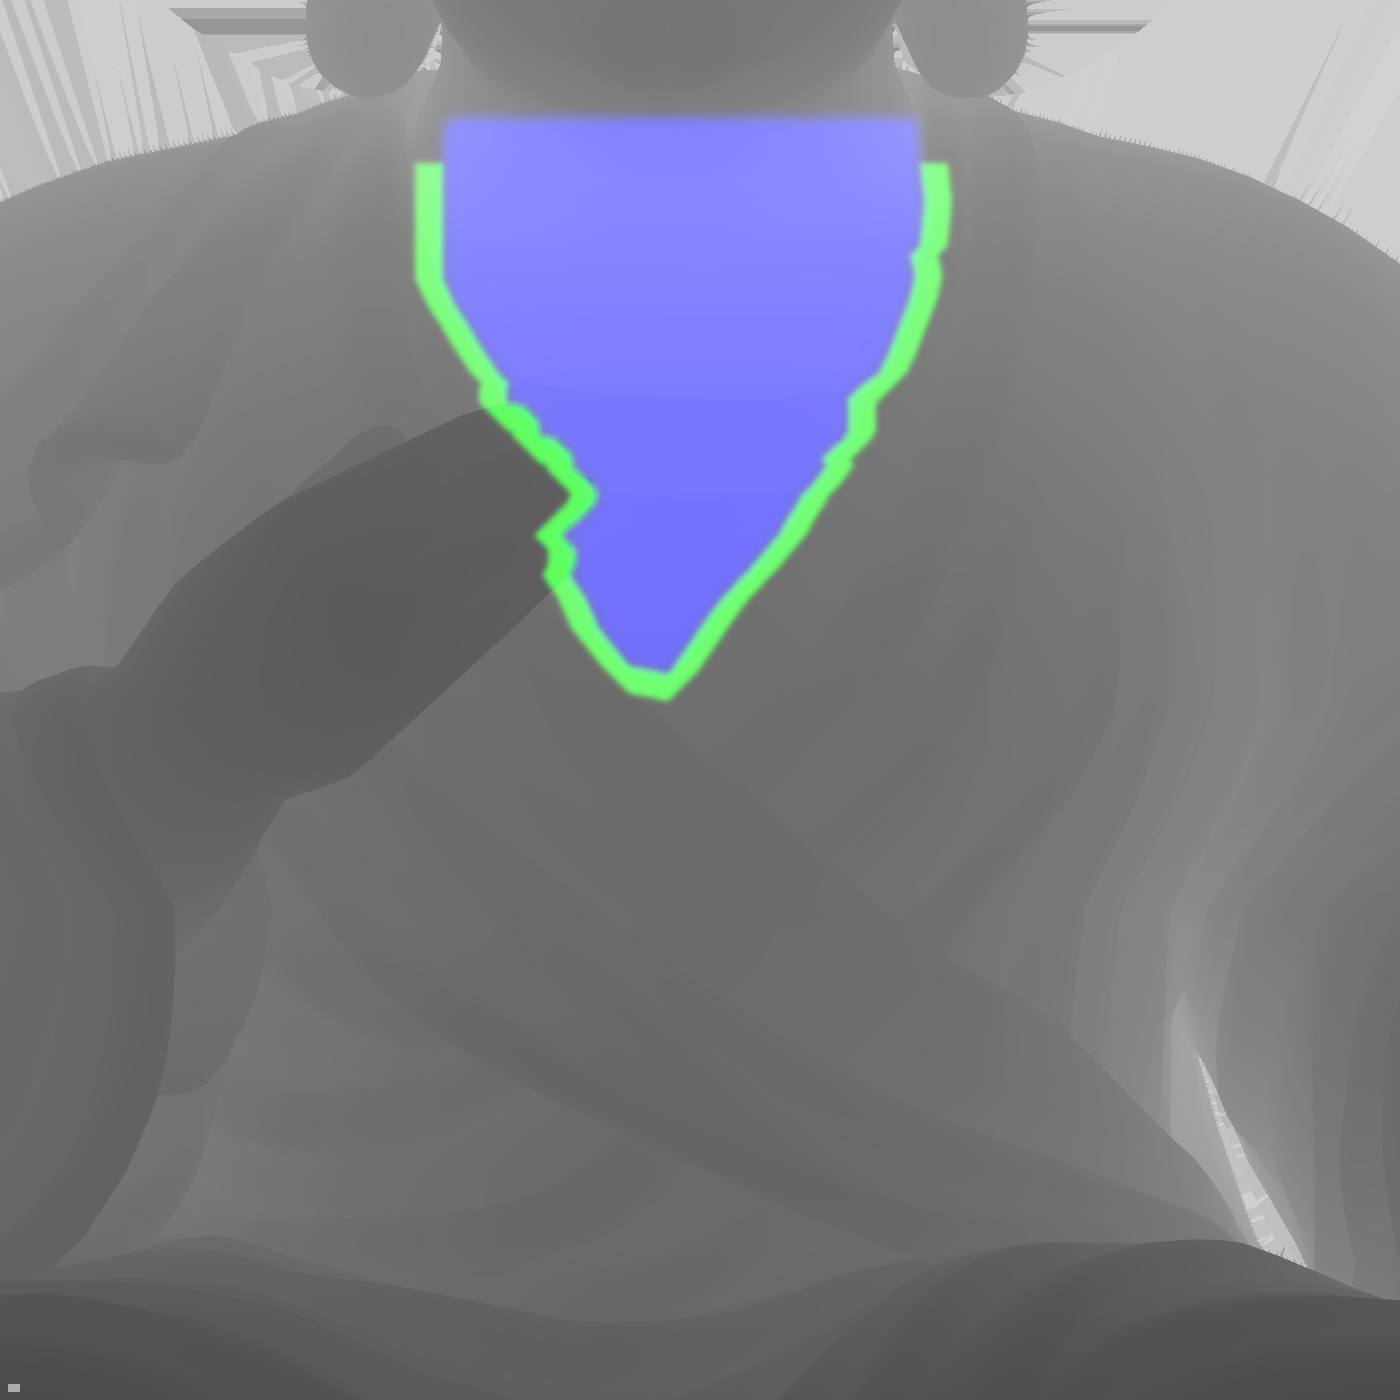
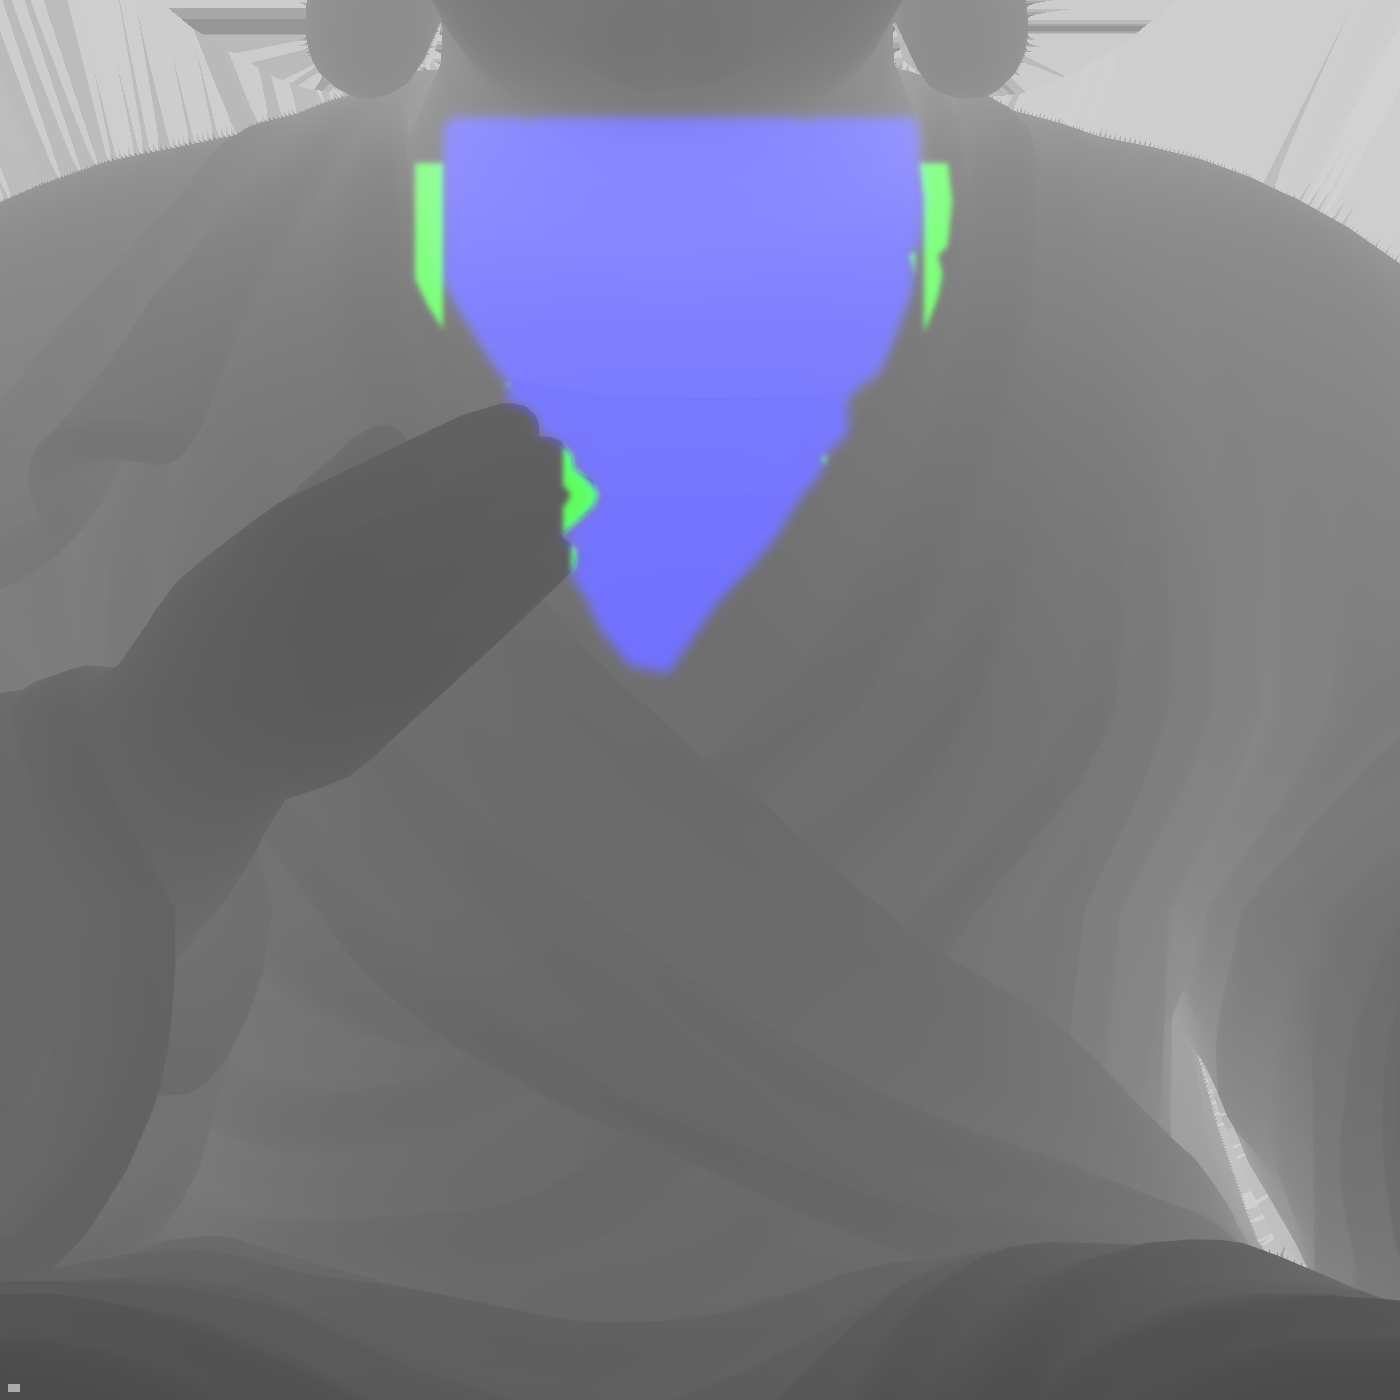
feat(t05): the figures' paint per #463: lips, mineral green, gilt on the collar only, seats, halos, folds, hands
Lips #6B5144; the inner robe #465546, which reads hue 136–143° and
saturation 0.25 on screen at cam03; the gilt only along the collar and
lapels (mask.py open: below), #806637 at metalness 0.3, at most 0.87 of
the face's brightness; seats #483F35 with their petals' rims tinted, 0.63–0.68
of the face for the middle five; the halo board #6A5440, 0.43–0.51 of the face.
The folds' hollows are darkened and their ridges rubbed from the surface's
curvature. Kasyapa's and Krakucchanda's hand capsules now reach their
fingertips. tools/t05-hall.cjs measures every zone on screen (zones: true,
stage.js zoneIds).

Claude-Session: https://claude.ai/code/session_01Cq65vKG5zL5hqHzVjHVbhc

Changed region(s): [[0.3686, 0.1536, 0.6757, 0.5221], [0.3071, 0.1843, 0.43, 0.3379]]

diff --git a/tools/t05-hall/stage.js b/tools/t05-hall/stage.js
@@ -66,7 +66,7 @@ const M = {
   wallIn: mat(0xb9b2a2, 0.95), wallFront: mat(0x8a3b2a, 0.9), wallOut: mat(0x8a3b2a, 0.9, true), timber: mat(0x3a2c23, 0.8), red: mat(0x7a3426, 0.75),
   roof: mat(0x2f251e, 0.85, false, { side: THREE.DoubleSide }), tile: mat(0x5a5f5c, 0.8, true),
   altar: mat(0x5d574e, 0.85), base: mat(0x6b5d4c, 0.7), gold: mat(0x6f5a34, 0.62, false, { metalness: 0.35 }),   // dark gold, not bright (ART.md §3.1, the lead 2026-11-21)
-  halo: mat(0x45372a, 0.7, false, { metalness: 0.12, side: THREE.DoubleSide }), clay: mat(0xa88a62, 0.75),
+  halo: mat(0x6a5440, 0.72, false, { metalness: 0.08, side: THREE.DoubleSide }), clay: mat(0xa88a62, 0.75),
 };
 const box = (w, h, d, m, x, y, z) => { const o = new THREE.Mesh(new THREE.BoxGeometry(w, h, d), m); o.position.set(x, y, z); o.castShadow = o.receiveShadow = true; scene.add(o); return o; };
 const hall = new THREE.Group(); scene.add(hall);
@@ -499,7 +499,7 @@ function paint(on = true) {
     f.painted ??= {};
     const anchors = o.masks === false ? Object.fromEntries(Object.entries(A.anchors).filter(([k]) => !/^mask/.test(k))) : A.anchors;
     const masks = o.masks === false ? {} : { front: MASKS[A.anchors.maskFront?.file], back: MASKS[A.anchors.maskBack?.file], right: MASKS[A.anchors.maskRight?.file] };
-    f.painted[key] ??= paintMaterial(recipe, anchors, f.pivot, o.env === false ? { masks } : { masks, envMap: probe, envIntensity: o.envIntensity ?? 1.6 });
+    f.painted[key] ??= paintMaterial(recipe, anchors, f.pivot, o.env === false ? { masks, fig: figures.indexOf(f) } : { masks, fig: figures.indexOf(f), envMap: probe, envIntensity: o.envIntensity ?? 1.6 });
     f.painted[key].userData.update(); if (o.envIntensity) f.painted[key].envMapIntensity = o.envIntensity;
     for (const m of f.meshes) m.material = f.painted[key];
   }
@@ -545,10 +545,38 @@ function ortho(i, side = "front", z = {}) {
   renderer.toneMapping = THREE.ACESFilmicToneMapping; renderer.toneMappingExposure = ex; scene.background = bg; sky.visible = true;
   for (const [o, m] of mats) o.material = m; for (const o of hidden) o.visible = true; orthoGrid.visible = false; scene.overrideMaterial = keep;
 }
+// The picture as drawn and, pixel for pixel, which zone of which figure each pixel shows (issue #463): the painted figures
+// write their zone's number (paint.js, uIdMode), each figure's halo is zone 15, everything else is black. Returns, for
+// each figure and zone, how many pixels showed it (those whose four neighbours show the same zone, so no edge blends in)
+// and their mean colour on screen, 0–255; call after shoot(), with the same view.
+function zoneIds() {
+  const gl = renderer.getContext(), Wd = gl.drawingBufferWidth, Hd = gl.drawingBufferHeight, shown = new Uint8Array(Wd * Hd * 4), id = new Uint8Array(Wd * Hd * 4);
+  render(); gl.readPixels(0, 0, Wd, Hd, gl.RGBA, gl.UNSIGNED_BYTE, shown);
+  const black = new THREE.MeshBasicMaterial({ color: 0x000000 }), kept = new Map(), mats = [];
+  const haloMat = (i) => new THREE.ShaderMaterial({ vertexShader: "void main() { gl_Position = projectionMatrix * modelViewMatrix * vec4(position, 1.); }", fragmentShader: `void main() { gl_FragColor = vec4(15. / 16., ${(i + 1).toFixed(1)} / 16., 0., 1.); }`, side: THREE.DoubleSide });
+  const own = new Set(); figures.forEach((f, i) => { const hm = haloMat(i); mats.push(hm); f.group.traverse((o) => { if (o.isMesh && o.userData.halo) { kept.set(o, o.material); o.material = hm; own.add(o); } }); for (const m of f.meshes) { own.add(m); if (m.material.userData.paint) m.material.userData.paint.U.uIdMode.value = 1; } });
+  scene.traverse((o) => { if ((o.isMesh || o.isLine || o.isPoints) && !own.has(o)) { kept.set(o, o.material); o.material = black; } });
+  const tm = renderer.toneMapping, bg = scene.background, sv = sky.visible; renderer.toneMapping = THREE.NoToneMapping; scene.background = new THREE.Color(0); sky.visible = false;
+  renderer.setRenderTarget(null); renderer.render(scene, camera); gl.readPixels(0, 0, Wd, Hd, gl.RGBA, gl.UNSIGNED_BYTE, id);
+  renderer.toneMapping = tm; scene.background = bg; sky.visible = sv;
+  for (const [o, m] of kept) o.material = m; for (const f of figures) for (const m of f.meshes) if (m.material.userData.paint) m.material.userData.paint.U.uIdMode.value = 0;
+  black.dispose(); mats.forEach((m) => m.dispose());
+  const code = (k) => (id[k + 1] ? Math.round(id[k] * 16 / 255) * 100 + Math.round(id[k + 1] * 16 / 255) : 0);
+  const acc = {};
+  for (let y = 1; y < Hd - 1; y++) for (let x = 1; x < Wd - 1; x++) {
+    const k = (y * Wd + x) * 4, c = code(k); if (!c) continue;
+    if (code(k + 4) !== c || code(k - 4) !== c || code(k + Wd * 4) !== c || code(k - Wd * 4) !== c) continue;
+    const a = (acc[c] ??= [0, 0, 0, 0]); a[0]++; a[1] += shown[k]; a[2] += shown[k + 1]; a[3] += shown[k + 2];
+  }
+  const names = [...recipe.zones.map((z) => z.name)]; names[13] = "唇"; names[14] = "背光";
+  const out = figures.map(() => ({}));
+  for (const [c, [n, r, g, b]] of Object.entries(acc)) { const zi = Math.floor(c / 100), fi = (c % 100) - 1; if (!out[fi]) continue; out[fi][zi === 0 ? "base" : names[zi - 1] ?? `zone${zi}`] = { px: n, rgb: [r / n, g / n, b / n].map((v) => +v.toFixed(1)) }; }
+  return out;
+}
 function isIn(o, root) { for (let p = o; p; p = p.parent) if (p === root) return true; return false; }
 
 setMood(Q.get("mood") || "summer"); view(Q.get("view") || "door");
-window.hall = { ready: true, ortho, pick, shoot, studio, walkPath, figurePoint, occlusion, paint, figures, recipe, ANCHORS, setMood, setStatues, view, walk, render, stats, cost, VIEWS, SEATS, F, AT, ALTAR, scene, renderer, camera,
+window.hall = { ready: true, zoneIds, ortho, pick, shoot, studio, walkPath, figurePoint, occlusion, paint, figures, recipe, ANCHORS, setMood, setStatues, view, walk, render, stats, cost, VIEWS, SEATS, F, AT, ALTAR, scene, renderer, camera,
   set ao(v) { useAO = v; }, set exposure(v) { exposureScale = v; }, info() { return { gl: renderer.getContext().getParameter(renderer.getContext().VERSION), renderer: (() => { const gl = renderer.getContext(), e = gl.getExtension("WEBGL_debug_renderer_info"); return e ? gl.getParameter(e.UNMASKED_RENDERER_WEBGL) : "?"; })() }; } };
 if (Q.get("live")) { const loop = () => { render(); requestAnimationFrame(loop); }; loop(); }
 document.body.dataset.ready = "1";   // tools/gpu/job.cjs waits for this, as it does on the site

diff --git a/tools/t05-hall/paint.js b/tools/t05-hall/paint.js
@@ -163,7 +163,8 @@ export function paintMaterial(recipe, anchors, pivot, opts = {}) {
   const m = new THREE.MeshStandardMaterial({ color: base.color, roughness: base.rough, metalness: base.metal ?? 0 });
   const none = new THREE.DataTexture(new Uint8Array(4), 1, 1); none.needsUpdate = true;
   const U = { uToFig: { value: new THREE.Matrix4() }, uL: { value: uL }, uFace: { value: uFace }, uEdge: { value: recipe.edge ?? 0.02 },
-    uMaskF: { value: opts.masks?.front ?? none }, uMaskB: { value: opts.masks?.back ?? none }, uMaskS: { value: opts.masks?.right ?? none }, uTint: { value: new THREE.Vector3(...(anchors.tint ?? [1, 1, 1])) } };
+    uMaskF: { value: opts.masks?.front ?? none }, uMaskB: { value: opts.masks?.back ?? none }, uMaskS: { value: opts.masks?.right ?? none }, uTint: { value: new THREE.Vector3(...(anchors.tint ?? [1, 1, 1])) },
+    uIdMode: { value: 0 }, uFig: { value: opts.fig ?? 0 } };
   m.userData.paint = { U, anchors, leaves: leaves.map((l, i) => ({ type: l.type, on: L[i * 8 + 3] > 0.5 })) };
   const zoneCode = zones.map((z, i) => {
     const c = lin(z.color);
@@ -171,19 +172,31 @@ export function paintMaterial(recipe, anchors, pivot, opts = {}) {
     if (z.pattern === "flowers") { const c2 = lin(z.pattern2 ?? "#9A7A3E"); col = `mix(${v3(c)}, ${v3(c2)}, flowers(p.xy, ${(z.cell ?? 0.16).toFixed(3)}))`; }
     const metal = z.pattern === "flowers" ? `mix(${(z.metal ?? 0).toFixed(3)}, ${(z.metal2 ?? 0.6).toFixed(3)}, flowers(p.xy, ${(z.cell ?? 0.16).toFixed(3)}))` : (z.metal ?? 0).toFixed(3);
     const wear = (z.wear ? ` * (1. - ${z.wear.toFixed(3)} * vnoise(p.xy * 9.) )` : "") + (z.tint ? " * uTint" : "");
+    // a zone may tint what stands out of it (the tips and rims of a lotus's petals, issue #463): toward `edgeTint.color`
+    // by its amount where the surface is convex (cvEdge, below)
+    if (z.edgeTint) col = `mix(${col}, ${v3(lin(z.edgeTint.color))}, ${(z.edgeTint.amount ?? 0.5).toFixed(3)} * cvEdge)`;
     return `  { float k = ${z.glsl}; pCol = mix(pCol, ${col}${wear}, k); pRough = mix(pRough, ${(z.rough).toFixed(3)} + ${(z.roughJitter ?? 0).toFixed(3)} * (vnoise(p.xy * 23.) - .5), k); pMetal = mix(pMetal, ${metal}, k); zone = mix(zone, ${(i + 1).toFixed(1)}, step(.5, k)); }`;
   }).join("\n");
+  const fo = recipe.folds ?? {}, fk0 = (fo.k0 ?? 3).toFixed(2), fk1 = (fo.k1 ?? 18).toFixed(2), fh = (fo.hollow ?? 0).toFixed(3), fe = (fo.edge ?? 0).toFixed(3);
   const fc = recipe.face, ink = lin(fc.ink), browC = lin(fc.browColor ?? fc.ink), lipC = lin(fc.lip), urnaC = lin(fc.urnaColor);
   m.onBeforeCompile = (sh) => {
     Object.assign(sh.uniforms, U);
     sh.vertexShader = sh.vertexShader.replace("#include <common>", "#include <common>\nuniform mat4 uToFig;\nvarying vec3 vFig;\nvarying vec3 vFigN;")
       .replace("#include <project_vertex>", "#include <project_vertex>\n  vFig = (uToFig * modelMatrix * vec4(transformed, 1.)).xyz;\n  vFigN = normalize(mat3(uToFig * modelMatrix) * objectNormal);");
-    sh.fragmentShader = sh.fragmentShader.replace("#include <common>", "#include <common>\n" + GLSL.replace(/LEAVES/g, String(N * 2)))
+    sh.fragmentShader = sh.fragmentShader.replace("#include <common>", "#include <common>\nuniform float uIdMode;\nuniform float uFig;\n" + GLSL.replace(/LEAVES/g, String(N * 2)))
       .replace("#include <color_fragment>", `#include <color_fragment>
   vec3 p = vFig; vec3 pCol = diffuseColor.rgb; float pRough = roughness; float pMetal = metalness; float zone = 0.;
+  // how the surface bends here, from the change of its normal across the pixel against the change of its place: the
+  // mean curvature in 1/m, more than zero where it stands out (a fold's ridge, a petal's rim) and less where it goes in
+  // (a fold's hollow); a fold's ridge some 5–30 cm round reads 3–18 (issue #463: hollows darkened, ridges worn)
+  vec3 cvN = normalize(vFigN), cvPx = dFdx(vFig), cvPy = dFdy(vFig);
+  float cv = (dot(dFdx(cvN), cvPx) + dot(dFdy(cvN), cvPy)) / max(dot(cvPx, cvPx) + dot(cvPy, cvPy), 1e-10);
+  float cvEdge = smoothstep(${fk0}, ${fk1}, cv), cvHollow = smoothstep(${fk0}, ${fk1}, -cv);
 ${zoneCode}
   float lip_, urna_; vec2 ink2 = faceInk(p, normalize(vFigN), lip_, urna_);
   float onFace = ${zones.findIndex((z) => z.name === recipe.face.zone) + 1}.0 == zone ? 1. : 0.;
+  // the folds: their hollows darker, their ridges rubbed toward the dust's colour; not on the face, whose lines are drawn
+  pCol *= 1. - ${fh} * cvHollow * (1. - onFace); pCol = mix(pCol, ${v3(lin(recipe.folds?.edgeColor ?? "#8A7A66"))}, ${fe} * cvEdge * (1. - onFace));
   pCol = mix(pCol, ${v3(lipC)}, lip_ * onFace); pRough = mix(pRough, ${fc.lipRough.toFixed(3)}, lip_ * onFace); pMetal = mix(pMetal, 0., lip_ * onFace);
   // the brow: the skin darkened, at most half covered; the lid: one line of the deep beam colour
   pCol = mix(pCol, ${v3(browC)}, ink2.x * onFace * ${(fc.browAlpha ?? 1).toFixed(3)}); pCol = mix(pCol, ${v3(ink)}, ink2.y * onFace);
@@ -194,7 +207,10 @@ ${zoneCode}
   pCol = mix(pCol, ${v3(lin(recipe.dust?.color ?? "#8A7A66"))}, ${(recipe.dust?.amount ?? 0).toFixed(3)} * smoothstep(.55, .95, normalize(vFigN).y) * (1. - max(ink2.x, ink2.y) * onFace));
   diffuseColor.rgb = pCol;`)
       .replace("#include <roughnessmap_fragment>", "#include <roughnessmap_fragment>\n  roughnessFactor = clamp(pRough, .04, 1.);")
-      .replace("#include <metalnessmap_fragment>", "#include <metalnessmap_fragment>\n  metalnessFactor = clamp(pMetal, 0., 1.);");
+      .replace("#include <metalnessmap_fragment>", "#include <metalnessmap_fragment>\n  metalnessFactor = clamp(pMetal, 0., 1.);")
+      // a picture of which zone each pixel is, for measuring the colours on screen zone by zone (stage.js zoneIds): red
+      // the zone's number (the lips 14) over 16, green the figure's
+      .replace("#include <dithering_fragment>", "#include <dithering_fragment>\n  if (uIdMode > .5) gl_FragColor = vec4(mix(zone, 14., step(.5, lip_ * onFace)) / 16., (uFig + 1.) / 16., 0., 1.);");
   };
   m.customProgramCacheKey = () => "t05paint:" + recipe.version + ":" + N;
   const upd = () => { pivot.updateMatrixWorld(true); U.uToFig.value.copy(pivot.matrixWorld).invert(); };

diff --git a/tools/t05-hall/mask.py b/tools/t05-hall/mask.py
@@ -38,6 +38,11 @@ for ci, z in enumerate(spec["channels"]):
     ro = z["ring_of"] if isinstance(z["ring_of"], list) else [z["ring_of"]]   # one channel, or the union of several
     base = np.any([regs[i] for i in ro], axis=0); w = max(1, int(round(z["width"] / mpp)))
     reg = ndi.binary_dilation(base, structure=ndi.generate_binary_structure(2, 1), iterations=w) & ~base & allow
+    if z.get("open") == "below":
+      # the gilt only along the collar and the lapels, its sides and top, not along its lower edge (issue #463): in each
+      # column of the picture, none below the lowest pixel of the region it rings
+      rows = np.arange(H)[:, None]; low = np.where(base.any(axis=0), (base * rows).max(axis=0), -1)[None, :]
+      reg &= ~((low >= 0) & (rows > low))
     regs.append(reg)
     m = ndi.gaussian_filter(reg.astype(np.float32), sigma=z.get("blur", 0.008) / mpp)
     out[..., ch] = np.clip(m * 255, 0, 255).astype(np.uint8)
